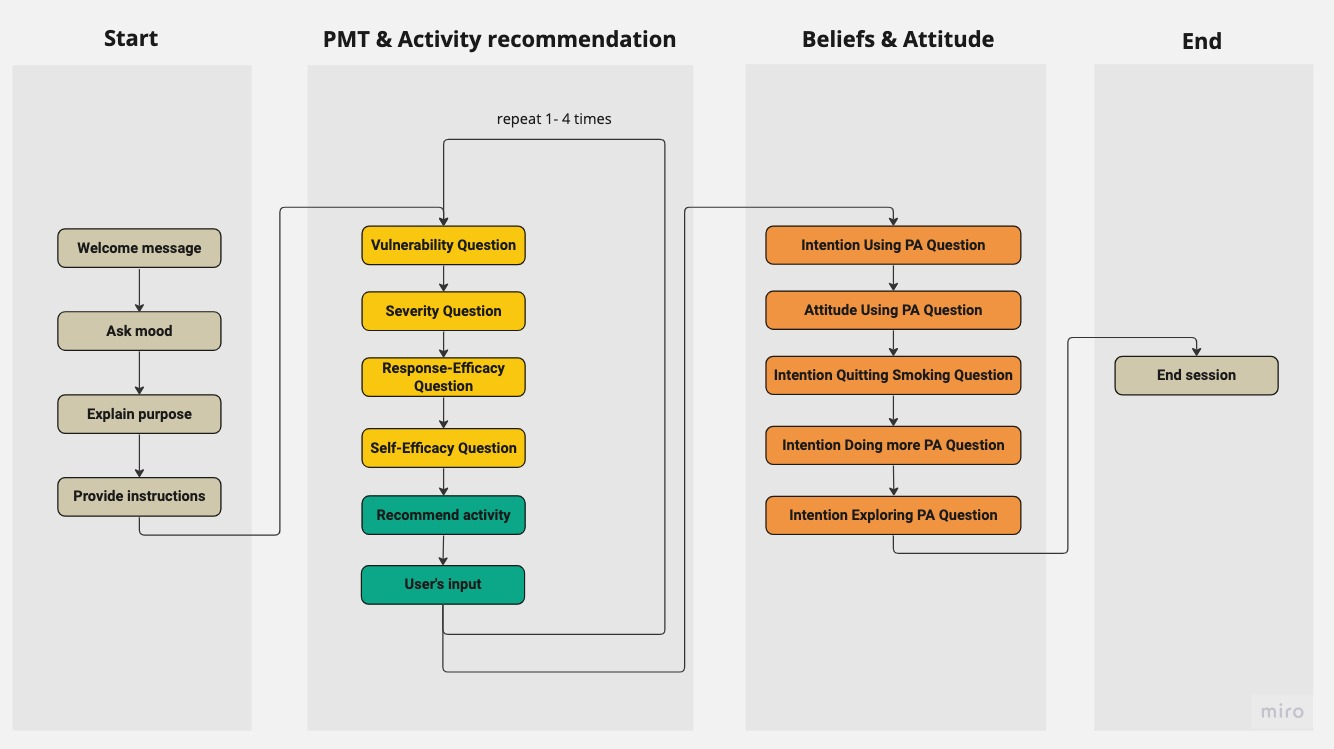
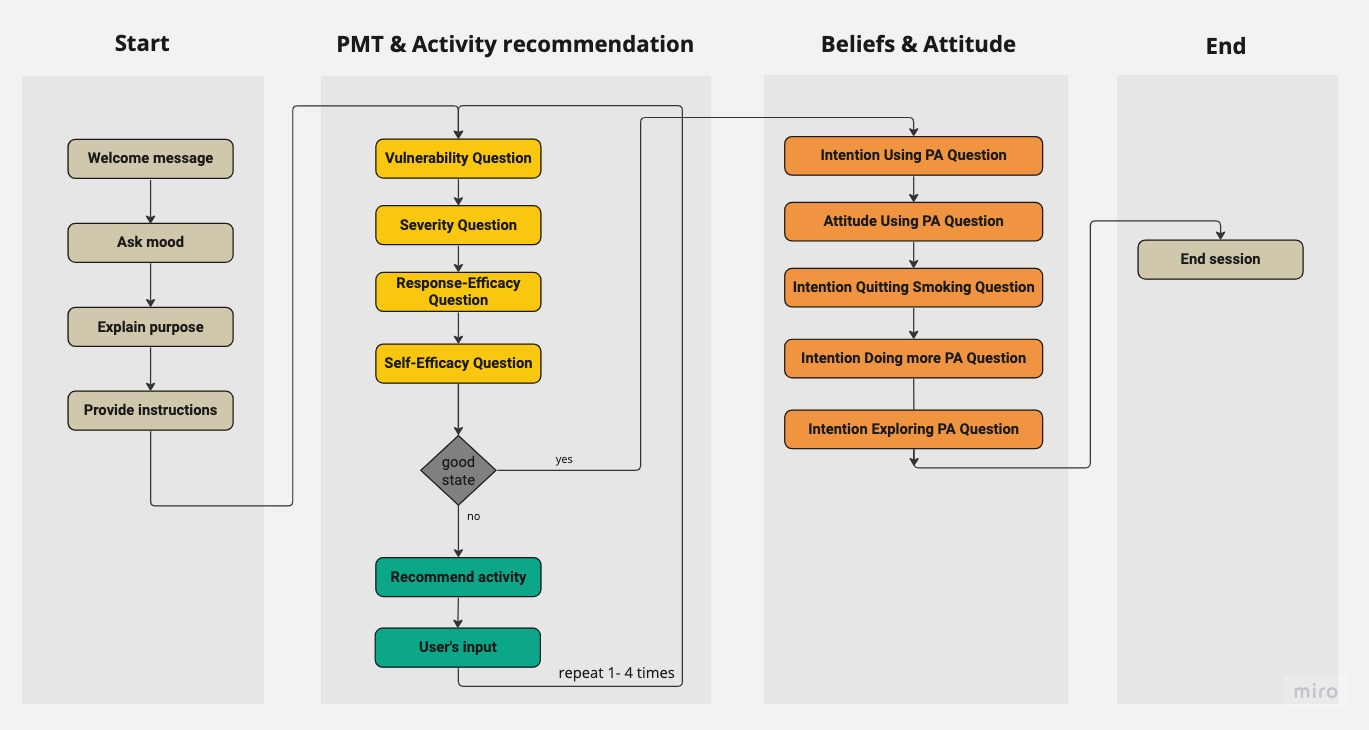
changed number of iterations algorithm

diff --git a/actions/actions.py b/actions/actions.py
@@ -92,7 +92,8 @@ class ActionDefaultFallbackEndDialog(Action):
         # End the dialog, which leads to a restart.
         return [FollowupAction('action_end_dialog')]
     
-class ActionStartPMTQuestions(Action):
+
+class ActionCheckGoodState(Action):
     """ 
         Start asking the PMT questions and providing an activity to do.
         Repeat this minimum 1 time, and maximum 4 times. The exact number of iterations is
@@ -100,7 +101,7 @@ class ActionStartPMTQuestions(Action):
         80% then the participant is in a 'good state'.
     """
     def name(self) -> Text:
-        return "action_start_PMT_questions"
+        return "action_check_good_state"
 
     def run(self, 
             dispatcher: CollectingDispatcher, 
@@ -112,15 +113,14 @@ class ActionStartPMTQuestions(Action):
         round_num += 1
 
         if round_num == 1:
-            return [SlotSet("round_num", round_num), FollowupAction("utter_state_question_intro")]
+            return [SlotSet("round_num", round_num), FollowupAction("utter_transition_new_activity")]
         else:
             good_state = (int(tracker.get_slot("state_V")) < -3) and (int(tracker.get_slot("state_S")) >= 8) and (int(tracker.get_slot("state_RE")) >= 3) and (int(tracker.get_slot("state_SE")) >= 8)
             logging.info("Good state: ", good_state)
             if (good_state) or round_num > 4:
                 return [FollowupAction("utter_intentions_attitude_intro")]
             else:
-                return [SlotSet("round_num", round_num), FollowupAction("utter_one_more_time")]
-
+                return [SlotSet("round_num", round_num), FollowupAction("utter_transition_new_activity")]
 
 
 def get_latest_bot_utterance(events) -> Optional[Any]:
@@ -285,7 +285,7 @@ class ActionSaveSession(Action):
 
         conn.close()
         
-        return []
+        return [FollowupAction("utter_one_more_time")]
     
 class ActionSaveEndSession(Action):
     """ 
@@ -313,8 +313,10 @@ class ActionSaveEndSession(Action):
         
         prolific_id = tracker.current_state()['sender_id']
         round_num = tracker.get_slot("round_num")
+        round_num += 1
         
-        slots_to_save = ["intention_using_PA", "attitude_using_PA", "intention_quitting_smoking", "intention_doing_more_PA", "intention_exploring_PA"]
+        slots_to_save = ["state_V", "state_S","state_RE", "state_SE",
+                         "intention_using_PA", "attitude_using_PA", "intention_quitting_smoking", "intention_doing_more_PA", "intention_exploring_PA"]
         for slot in slots_to_save:
             save_sessiondata_entry(cur, conn, prolific_id, round_num, 
                                    slot, tracker.get_slot(slot),

diff --git a/README.md b/README.md
@@ -48,7 +48,7 @@ PASSWORD=[db_password] docker-compose up --build
    - **Locally** from: http://localhost:3000/?userid=[prolificID_value]&a=[age_group_value]&g=[gender_value]
    - **Online** from: http://34.175.153.111:3000/?userid=[prolificID_value]&a=[age_group_value]&g=[gender_value]
      - [prolificID_value] is the prolificID,
-     - [age_group_value] is the user's age group and,
+     - [age_group_value] is the user's age group when <39, 40-49, 50-59 or > 60 and has values [39,49,59,60] and,
      - [gender_value] is the user's gender where male: 0 and female: 1.
 
 ## Database access
@@ -63,13 +63,13 @@ To access the db in DBeaver both locally and online:
 
 - Make sure to set "allowPublicKeyRetrieval" to "true" in "Driver properties.
 
-## Dialog flow design 
+## Dialog flow design
 
 ![1687515317902](chatbot_dialog_flow.jpg)
 
 * The dialog is split into 4 parts: **Start, PMT & Activity Recommendation, Beliefs & Attitude,** and **End**.
   * **Start:** The user is introduced to the chatbot, and given instructions about how to interact with it. The bot also gathers information about the user's mood.
-  * **PMT & Activity Recommendation:** The user is prompted to answer 4 PMT questions. Afterward, an activity is recommended which could involve: reading a text, watching a video, or doing a short mental activity. After that, the user is prompted to reflect on this proposed activity. This process (PMT & Activity Recommendation) is repeated a minimum 1 time and maximum 4 times, as we have 4 PMT constructs. The exact number of iterations is determined by the user's "good state". More on that in the section *Implementation details*. The recommended activity is also computed based on an algorithm explained in the section *Implementation details*.
+  * **PMT & Activity Recommendation:** The user is prompted to answer 4 PMT questions. Afterward, an activity is recommended which could involve: reading a text, watching a video, or doing a short mental activity. After that, the user is prompted to reflect on this proposed activity. This process (PMT & Activity Recommendation) is repeated a minimum 1 time and maximum 4 times, as we have 4 PMT constructs. The exact number of iterations is determined by the user's "good state". If the user reaches a "good state" before the 4th iteration, the dialog continues to the next part. More on that in the section *Implementation details*. The recommended activity is also computed based on an algorithm explained in the section *Implementation details*.
   * **Beliefs & Attitude:** At the end of the dialog, the user is prompted to answer 5 questions about their beliefs and attitude towards quitting smoking and doing more PA.
   * **End:** The conversation ends with the bot thanking the user and prompting them to click on a prolific link to complete participation.
 
@@ -97,9 +97,9 @@ Hence the algorithm to calculate the "good state" score is:
 		good_state = False
 ```
 
-The process **stops** when the user reaches a "good state" score, or when there are 4 iterations, because this is the number of all different PMT constructs.
+The process **stops** when the user reaches a "good state" score, or when there are 4 iterations of PMT questions, because this is the number of all different PMT constructs.
 
-This method is implemented by **ActionStartPMTQuestions** in the actions.py
+This method is implemented by **ActionCheckGoodState** in the actions.py
 
 ### PMT questions
 
